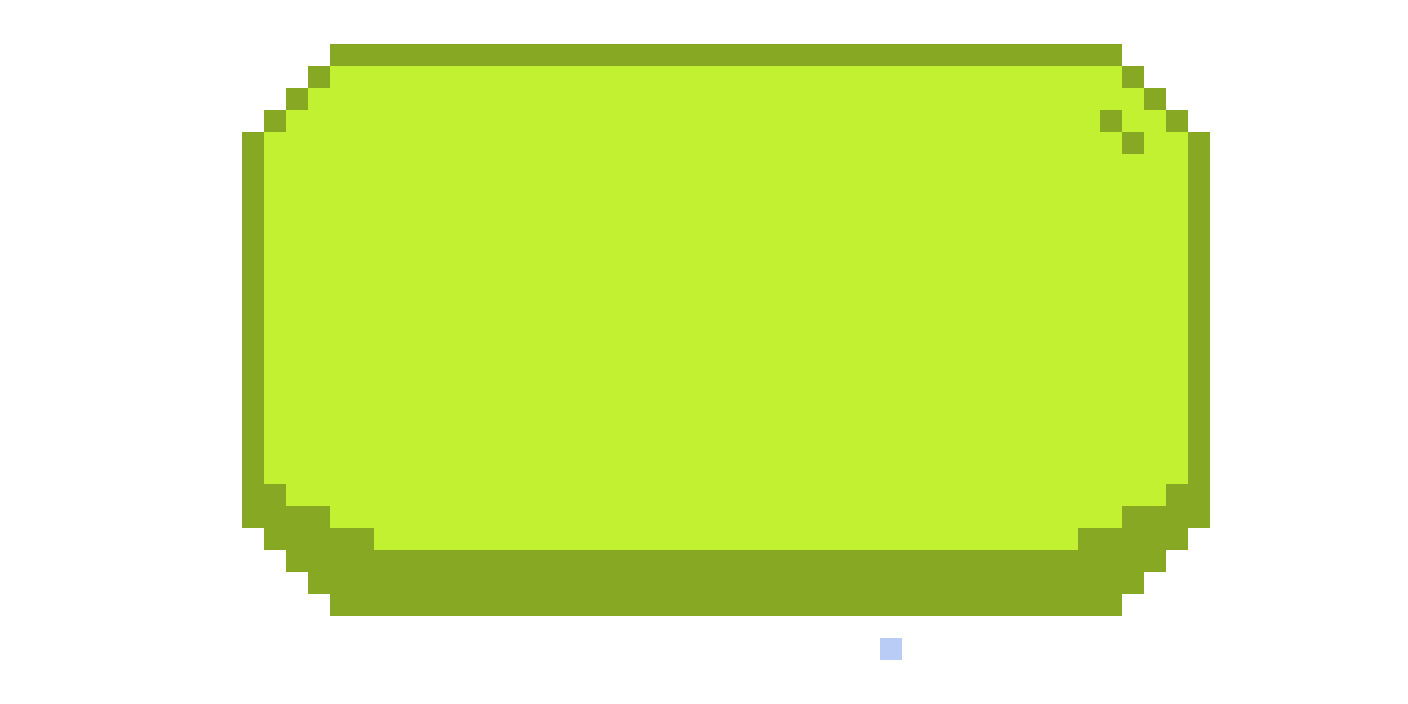
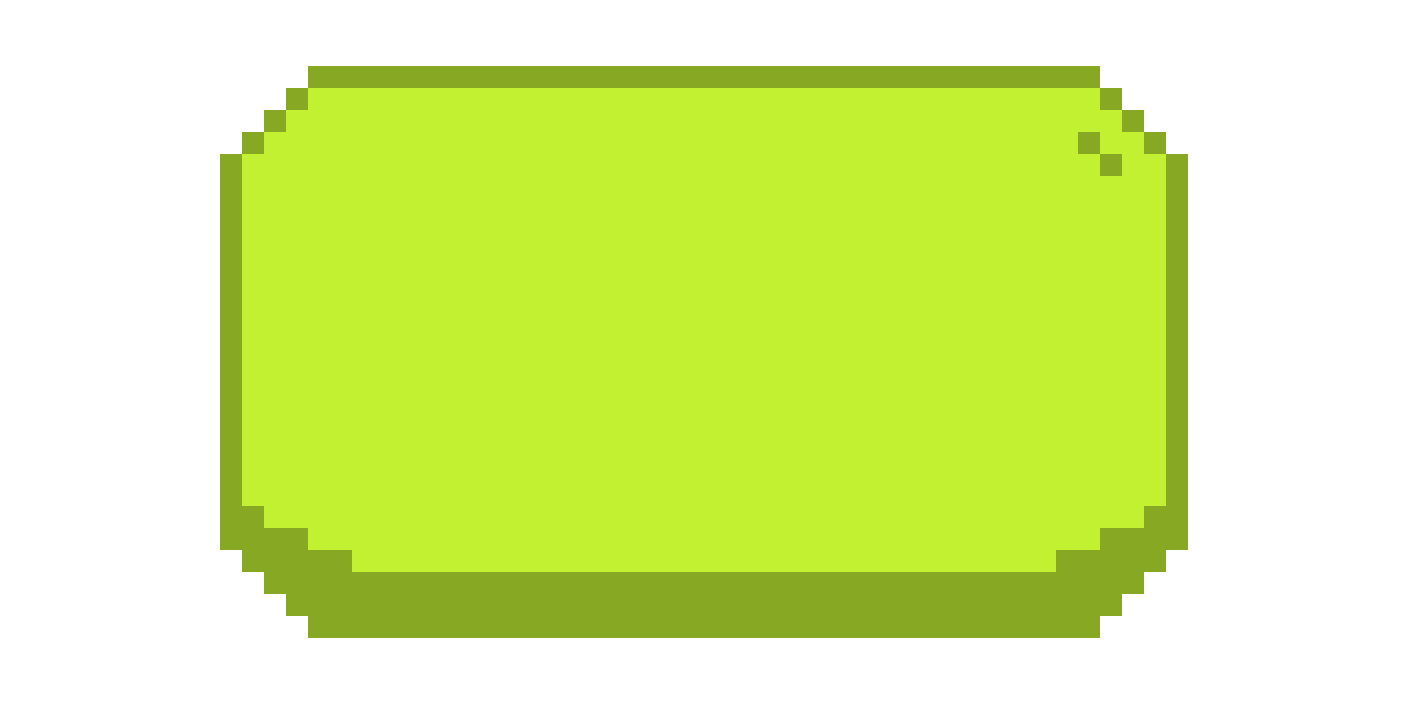
Image display

diff --git a/src/Pages/GamePage.jsx b/src/Pages/GamePage.jsx
@@ -1,6 +1,7 @@
 import '../App.css'
 import words from '../Data/words.json';
 import { Letter } from '../Components/Letter';
+import {ImageContainer} from '../Components/ImageContainer';
 import { useState, useEffect } from 'react';
 import { useNavigate } from 'react-router-dom';
 
@@ -14,7 +15,13 @@ function GamePage() {
   ];
 
   const navigate = useNavigate();
-  //const images = [array of images]
+  const images = [
+    'url(/img/hangman5.png)',
+    'url(/img/hangman4.png)',
+    'url(/img/hangman3.png)',
+    'url(/img/hangman2.png)',
+    'url(/img/hangman1.png)', 
+  ]
 
   const[currentWord, setCurrentWord] = useState("");
   const [guessedLetters, setGuessedLetters] = useState([]);
@@ -22,6 +29,7 @@ function GamePage() {
   const [correctLetters, setCorrectLetters] = useState([]);
 
   const [guessesRemaining, setGuessesRemaining] = useState(5);
+  const [image, setImage] = useState(images[guessesRemaining])
 
   const startGame = () => {
     setGuessedLetters([]);
@@ -52,23 +60,28 @@ function GamePage() {
     }
   }
 
-  /*useEffect(() => {
+  useEffect(() => {
+  if (guessesRemaining > 0) {
+    setImage(images[guessesRemaining]);
+  }
+}, [guessesRemaining]);
+
+  useEffect(() => {
     // Check for loss
     if (guessesRemaining === 0) {
       navigate('/gameover');
     }
 
-    if(guessedLetters)
+    //if(guessedLetters)
     
-  }, [guessesRemaining, guessedLetters, currentWord]);*/
+  }, [guessesRemaining, guessedLetters, currentWord]);
 
   
   return (
     <>
       <div className='main-container'>
 
-        <div className='left-container'>
-        </div>
+        <ImageContainer imgUrl={image}/>
 
         <div className='right-container'>
           <div className='header-div'>

diff --git a/src/App.css b/src/App.css
@@ -32,7 +32,7 @@ html, body, #root {
   width: 100%;
   /*background-color: var(--medium-green);*/
   background-image: url('/img/hangman1.png');
-  background-size: 700px;
+  background-size: 500px;
   background-repeat: no-repeat;
   background-position: center;
 }

diff --git a/src/Components/ImageContainer.jsx b/src/Components/ImageContainer.jsx
@@ -1,0 +1,8 @@
+import './ImageContainer.css'
+
+export const ImageContainer = ({imgUrl}) => {
+    return (
+        <div className='left-container' style={{backgroundImage: imgUrl}}>
+        </div>
+    )
+}

diff --git a/src/Components/ImageContainer.css b/src/Components/ImageContainer.css
@@ -1,0 +1,6 @@
+.left-container {
+  width: 100%;
+  background-size: 500px;
+  background-repeat: no-repeat;
+  background-position: center;
+}
